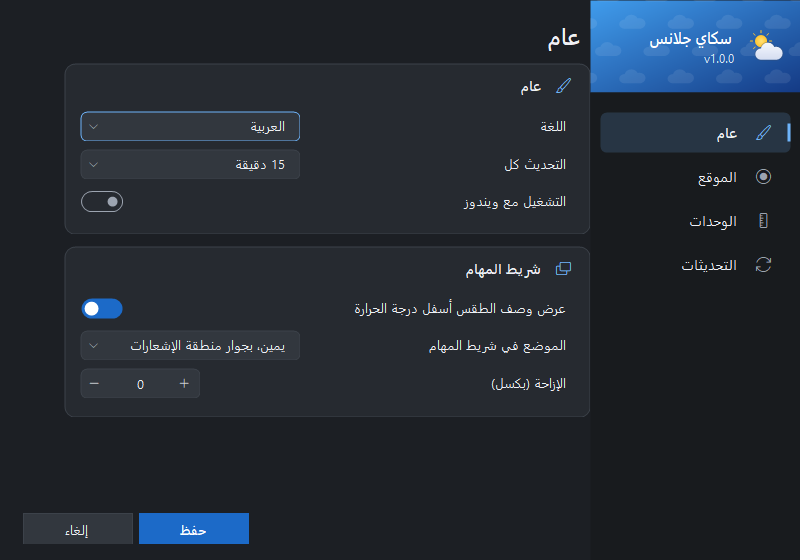
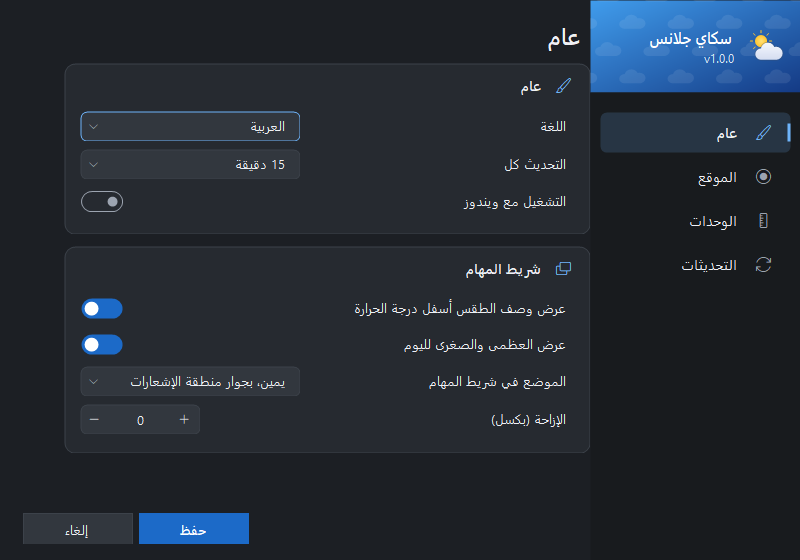
Show today's high and low in the widget, and line up the city search results

diff --git a/src/SkyGlance/UI/Taskbar/TaskbarWidget.cs b/src/SkyGlance/UI/Taskbar/TaskbarWidget.cs
@@ -1,4 +1,4 @@
-using System.Drawing.Drawing2D;
+using System.Drawing.Drawing2D;
 using System.Drawing.Imaging;
 using System.Drawing.Text;
 using static SkyGlance.Interop.Native;
@@ -23,9 +23,9 @@ sealed class TaskbarWidget : NativeWindow
     public event Action? RightClicked;
 
     IntPtr tray;
-    string temp = "--", condition = "";
+    string temp = "--", condition = "", hiLo = "";
     SkyIcon icon = SkyIcon.Cloudy;
-    bool hover, rtl, day = true, showCondition = true;
+    bool hover, rtl, day = true, showCondition = true, showHiLo = true;
     Size size;
     Point lastPos = new(int.MinValue, 0);
 
@@ -74,11 +74,13 @@ sealed class TaskbarWidget : NativeWindow
         Place();
     }
 
-    public void SetContent(string temperature, string conditionText, SkyIcon sky, bool isDay, bool withCondition, bool isRtl)
+    /// <param name="highLow">Today's high and low (such as "↑22° ↓13°"), or null to leave them out.</param>
+    public void SetContent(string temperature, string conditionText, string? highLow, SkyIcon sky, bool isDay, bool withCondition, bool isRtl)
     {
-        if (temperature == temp && conditionText == condition && sky == icon && isDay == day && withCondition == showCondition && isRtl == rtl) return;
-        bool relayout = isRtl != rtl || withCondition != showCondition;
-        temp = temperature; condition = conditionText; icon = sky; day = isDay; showCondition = withCondition; rtl = isRtl;
+        string hl = highLow ?? "";
+        if (temperature == temp && conditionText == condition && hl == hiLo && (highLow != null) == showHiLo && sky == icon && isDay == day && withCondition == showCondition && isRtl == rtl) return;
+        bool relayout = isRtl != rtl || withCondition != showCondition || (highLow != null) != showHiLo;
+        temp = temperature; condition = conditionText; hiLo = hl; showHiLo = highLow != null; icon = sky; day = isDay; showCondition = withCondition; rtl = isRtl;
         if (!Alive) return;
         var before = size;
         Render();
@@ -243,7 +245,7 @@ sealed class TaskbarWidget : NativeWindow
     void Render()
     {
         if (!GetWindowRect(tray, out var tr)) return;
-        using var bmp = Paint(temp, condition, icon, day, showCondition, hover, rtl, SystemDark(), Scale, tr.Height);
+        using var bmp = Paint(temp, condition, showHiLo ? hiLo : null, icon, day, showCondition, hover, rtl, SystemDark(), Scale, tr.Height);
         size = bmp.Size;
         var screen = GetDC(IntPtr.Zero);
         var mem = CreateCompatibleDC(screen);
@@ -266,22 +268,26 @@ sealed class TaskbarWidget : NativeWindow
     }
 
     /// <summary>
-    /// Draws the widget: the weather picture beside the temperature, with the condition below it.
+    /// Draws the widget: the weather picture beside the temperature and today's high and low, with the condition below.
     /// The width depends only on the scale and the settings, never on the values, so it doesn't jitter as they change.
     /// </summary>
-    public static Bitmap Paint(string temp, string condition, SkyIcon icon, bool isDay, bool withCondition, bool hover, bool rtl, bool dark, float s, int h)
+    public static Bitmap Paint(string temp, string condition, string? highLow, SkyIcon icon, bool isDay, bool withCondition, bool hover, bool rtl, bool dark, float s, int h)
     {
         using var fTemp = new Font("Segoe UI Semibold", (withCondition ? 13f : 15f) * s, GraphicsUnit.Pixel);
         using var fCond = new Font("Segoe UI", 11f * s, GraphicsUnit.Pixel);
-        float tempW;
+        float tempW, hlW = 0, tempNow;
         using (var probe = new Bitmap(1, 1))
         using (var pg = Graphics.FromImage(probe))
         {
             pg.TextRenderingHint = TextRenderingHint.AntiAliasGridFit;
-            tempW = pg.MeasureString("-88°", fTemp).Width;
+            tempW = pg.MeasureString("-88\u00B0", fTemp).Width;
+            tempNow = pg.MeasureString(temp, fTemp).Width;
+            // Room for the widest likely high and low, so the width doesn't change with the weather.
+            if (highLow != null) hlW = Math.Max(pg.MeasureString("\u219188\u00B0 \u2193-88\u00B0", fCond).Width, pg.MeasureString(highLow, fCond).Width);
         }
-        int pad = (int)(8 * s), iconS = (int)Math.Min(h - 14 * s, 30 * s), gap = (int)(6 * s);
-        int textW = (int)Math.Ceiling(withCondition ? Math.Max(tempW, 92 * s) : tempW);
+        int pad = (int)(8 * s), iconS = (int)Math.Min(h - 14 * s, 30 * s), gap = (int)(6 * s), hlGap = (int)(4 * s);
+        float topW = tempW + (highLow != null ? hlGap + hlW : 0);
+        int textW = (int)Math.Ceiling(withCondition ? Math.Max(topW, 92 * s) : topW);
         int w = pad + iconS + gap + textW + pad;
 
         var bmp = new Bitmap(w, h, PixelFormat.Format32bppArgb);
@@ -320,16 +326,20 @@ sealed class TaskbarWidget : NativeWindow
             using var b = new SolidBrush(fg);
             using var bd = new SolidBrush(dim);
             float tH = fTemp.GetHeight(g);
-            if (withCondition && condition.Length > 0)
+            float cH = fCond.GetHeight(g);
+            float y1 = withCondition && condition.Length > 0 ? (h - (tH + cH - 3 * s)) / 2 : (h - tH) / 2;
+            g.DrawString(temp, fTemp, b, new RectangleF(textX, y1, textW, tH), tf);
+            if (!string.IsNullOrEmpty(highLow))
             {
-                float cH = fCond.GetHeight(g);
-                float total = tH + cH - 3 * s;
-                float y1 = (h - total) / 2;
-                g.DrawString(temp, fTemp, b, new RectangleF(textX, y1, textW, tH), tf);
-                g.DrawString(condition, fCond, bd, new RectangleF(textX, y1 + tH - 3 * s, textW, cH), sf);
+                // Just after the temperature, on the reading side, sharing its baseline.
+                float hlY = y1 + (fTemp.FontFamily.GetCellAscent(fTemp.Style) * fTemp.Size / fTemp.FontFamily.GetEmHeight(fTemp.Style))
+                               - (fCond.FontFamily.GetCellAscent(fCond.Style) * fCond.Size / fCond.FontFamily.GetEmHeight(fCond.Style));
+                float hlX = rtl ? textX + textW - tempNow - hlGap - hlW : textX + tempNow + hlGap;
+                using var hf = new StringFormat { Alignment = rtl ? StringAlignment.Far : StringAlignment.Near, FormatFlags = StringFormatFlags.NoWrap };
+                g.DrawString(highLow, fCond, bd, new RectangleF(hlX, hlY, hlW + 2 * s, cH), hf);
             }
-            else
-                g.DrawString(temp, fTemp, b, new RectangleF(textX, (h - tH) / 2, textW, tH), tf);
+            if (withCondition && condition.Length > 0)
+                g.DrawString(condition, fCond, bd, new RectangleF(textX, y1 + tH - 3 * s, textW, cH), sf);
         }
         return bmp;
     }

diff --git a/src/SkyGlance/UI/Settings/SettingsForm.cs b/src/SkyGlance/UI/Settings/SettingsForm.cs
@@ -12,16 +12,17 @@ sealed class SettingsForm : Form
     // General
     readonly ThemedCombo cmbLang = Combo(), cmbSide = Combo(), cmbRefresh = Combo();
     readonly ThemedNumber numOffset = Num(-2000, 2000);
-    readonly ToggleSwitch tglStartup = new(), tglCondition = new();
+    readonly ToggleSwitch tglStartup = new(), tglCondition = new(), tglHighLow = new();
     static readonly int[] RefreshOptions = [10, 15, 30, 60];
     // Location
     readonly ToggleSwitch tglAuto = new();
     readonly Label lblPlace = new() { AutoSize = true, Font = new Font("Segoe UI Semibold", 11f), MaximumSize = new Size(490, 0), Margin = new Padding(0, 0, 0, 6) };
     readonly Label lblLocStatus = new() { AutoSize = true, Tag = "dim", MaximumSize = new Size(490, 0), Margin = new Padding(0, 4, 0, 4) };
     readonly Button btnDetect = new() { AutoSize = true, Height = 30 };
-    readonly ThemedText txtSearch = new() { Width = 330 };
-    readonly Button btnSearch = new() { AutoSize = true, Height = 30 }, btnUse = new() { AutoSize = true, Height = 30 };
-    readonly ThemedCombo cmbResults = Combo(490);
+    readonly ThemedText txtSearch = new() { Width = 392 };
+    readonly Button btnSearch = new() { Size = new Size(90, 30) }, btnUse = new() { AutoSize = true, Height = 30 };
+    // Same left edge as the rows above and below it (a control's default margin is 3 px), and the same width as the search row.
+    readonly ThemedCombo cmbResults = new() { Width = 490, Margin = new Padding(0, 4, 0, 4) };
     readonly List<LocResult> results = [];
     // Units
     readonly ThemedCombo cmbTemp = Combo(260), cmbWind = Combo(260), cmbPrecip = Combo(260);
@@ -123,6 +124,7 @@ sealed class SettingsForm : Form
         int ri = Array.IndexOf(RefreshOptions, s.RefreshMinutes);
         cmbRefresh.SelectedIndex = ri >= 0 ? ri : 1;
         tglCondition.Checked = s.ShowCondition;
+        tglHighLow.Checked = s.ShowHighLow;
         tglStartup.Checked = !app.Headless && AppSettings.StartWithWindows;
         AddPage(Art.IconGeneral, L.T("General"),
             Card(L.T("General"), Art.IconGeneral,
@@ -131,6 +133,7 @@ sealed class SettingsForm : Form
                 Row(L.T("StartWithWindows"), tglStartup)),
             Card(L.T("Taskbar"), Art.IconTaskbar,
                 Row(L.T("ShowCondition"), tglCondition),
+                Row(L.T("ShowHighLow"), tglHighLow),
                 Row(L.T("WidgetPosition"), cmbSide),
                 Row(L.T("WidgetOffset"), numOffset)));
     }
@@ -255,6 +258,7 @@ sealed class SettingsForm : Form
         s.WidgetOffset = (int)numOffset.Value;
         s.RefreshMinutes = RefreshOptions[Math.Max(0, cmbRefresh.SelectedIndex)];
         s.ShowCondition = tglCondition.Checked;
+        s.ShowHighLow = tglHighLow.Checked;
         s.AutoLocation = tglAuto.Checked;
         s.Temperature = (TemperatureUnit)Math.Max(0, cmbTemp.SelectedIndex);
         s.Wind = (WindUnit)Math.Max(0, cmbWind.SelectedIndex);

diff --git a/src/SkyGlance/SkyGlanceApp.cs b/src/SkyGlance/SkyGlanceApp.cs
@@ -1,4 +1,4 @@
-using Microsoft.Win32;
+using Microsoft.Win32;
 
 namespace SkyGlance;
 
@@ -164,13 +164,20 @@ sealed class SkyGlanceApp : ApplicationContext
         return h == null ? null : (h.TemperatureC, h.Code, h.IsDay);
     }
 
+    /// <summary>Today's high and low at the location, such as "↑22° ↓13°", or null before the first forecast.</summary>
+    public string? HighLow()
+    {
+        if (Forecast?.Today(LocalNow) is not { } d) return null;
+        return $"\u2191{UnitFormat.Temperature(d.MaxC, S.Temperature)} \u2193{UnitFormat.Temperature(d.MinC, S.Temperature)}";
+    }
+
     void UpdateWidget()
     {
         if (Headless) return;
         var now = Now();
         string t = now is { } n ? UnitFormat.Temperature(n.tempC, S.Temperature) : "--";
         string cond = now is { } m ? L.Condition(m.code) : !S.HasLocation ? L.T("Location") : "";
-        widget.SetContent(t, cond, now is { } k ? WeatherCode.Icon(k.code) : SkyIcon.Cloudy, now?.day ?? true, S.ShowCondition, L.Ar);
+        widget.SetContent(t, cond, S.ShowHighLow ? HighLow() ?? "" : null, now is { } k ? WeatherCode.Icon(k.code) : SkyIcon.Cloudy, now?.day ?? true, S.ShowCondition, L.Ar);
         string tip = now is { } p
             ? $"{L.T("AppName")}: {S.LocationName}\n{UnitFormat.Temperature(p.tempC, S.Temperature)} {L.Condition(p.code)}"
             : $"{L.T("AppName")}\n{(S.HasLocation ? L.T("Loading") : L.T("NoLocation"))}";

diff --git a/src/SkyGlance/DevTools/Shots.cs b/src/SkyGlance/DevTools/Shots.cs
@@ -21,7 +21,7 @@ static class Shots
             var c = forecast.Current;
 
             WidgetStrip(Path.Combine(dir, $"widget-{lang}.png"), UnitFormat.Temperature(c.TemperatureC, TemperatureUnit.Celsius),
-                L.Condition(c.Code), WeatherCode.Icon(c.Code), c.IsDay, lang == "ar");
+                L.Condition(c.Code), app.HighLow(), WeatherCode.Icon(c.Code), c.IsDay, lang == "ar");
 
             foreach (var dark in new[] { true, false })
             {
@@ -45,11 +45,11 @@ static class Shots
     }
 
     /// <summary>The widget on a dark taskbar-coloured strip, at 150% scale for a crisp README image.</summary>
-    static void WidgetStrip(string path, string temp, string condition, SkyIcon icon, bool day, bool rtl)
+    static void WidgetStrip(string path, string temp, string condition, string? highLow, SkyIcon icon, bool day, bool rtl)
     {
         const float s = 1.5f;
         int h = (int)(48 * s);
-        using var widget = TaskbarWidget.Paint(temp, condition, icon, day, true, false, rtl, true, s, h);
+        using var widget = TaskbarWidget.Paint(temp, condition, highLow, icon, day, true, false, rtl, true, s, h);
         using var strip = new Bitmap(widget.Width + (int)(40 * s), h);
         using (var g = Graphics.FromImage(strip))
         {

diff --git a/src/SkyGlance/Localization/L.cs b/src/SkyGlance/Localization/L.cs
@@ -79,6 +79,7 @@ public static class L
         ["PrecipIn"] = ("Inches (in)", "بوصة (in)"),
         ["Taskbar"] = ("Taskbar", "شريط المهام"),
         ["ShowCondition"] = ("Show the condition under the temperature", "عرض وصف الطقس أسفل درجة الحرارة"),
+        ["ShowHighLow"] = ("Show today's high and low", "عرض العظمى والصغرى لليوم"),
         ["RefreshEvery"] = ("Refresh every", "التحديث كل"),
         ["Minutes"] = ("{0} minutes", "{0} دقيقة"),
         ["WidgetPosition"] = ("Taskbar position", "الموضع في شريط المهام"),

diff --git a/src/SkyGlance/Configuration/AppSettings.cs b/src/SkyGlance/Configuration/AppSettings.cs
@@ -22,6 +22,8 @@ public sealed class AppSettings
 
     /// <summary>Show the condition ("Light rain") under the temperature in the taskbar.</summary>
     public bool ShowCondition { get; set; } = true;
+    /// <summary>Show today's high and low beside the temperature in the taskbar.</summary>
+    public bool ShowHighLow { get; set; } = true;
     /// <summary>Minutes between forecast refreshes.</summary>
     public int RefreshMinutes { get; set; } = 15;
 

diff --git a/README.md b/README.md
@@ -27,7 +27,7 @@ with Celsius or Fahrenheit and five wind units. English and Arabic. No account, 
 
 ## Features
 
-- **Lives in the taskbar.** A weather picture, the temperature and the condition, embedded next to the notification area or at the left end. It takes the nearest free spot on either side, so it never covers other taskbar tools such as Data Tide, Salaty Reminder or TrafficMonitor, hides with the taskbar in fullscreen apps and comes back after Explorer restarts.
+- **Lives in the taskbar.** A weather picture, the temperature, today's high and low and the condition, embedded next to the notification area or at the left end. It takes the nearest free spot on either side, so it never covers other taskbar tools such as Data Tide, Salaty Reminder or TrafficMonitor, hides with the taskbar in fullscreen apps and comes back after Explorer restarts.
 - **Forecast flyout.** Click the widget for the sky right now (with "feels like", today's high and low), humidity, wind and direction, UV index, rain chance, sunrise and sunset, a 24-hour temperature chart with rain chances, and a 7-day forecast with each day's range.
 - **Your location, automatically.** Uses Windows location when it's on, otherwise a rough location from your IP address, and checks again every few hours so a laptop follows you. Or search for any city in the world and keep it.
 - **The time where the weather is.** A city in another time zone shows its own clock and its own "now".

diff --git a/CHANGELOG.md b/CHANGELOG.md
@@ -6,7 +6,7 @@ The format follows [Keep a Changelog](https://keepachangelog.com/en/1.1.0/) and 
 ## [1.0.0] - 2026-11-16
 
 ### Added
-- Taskbar widget with the weather picture, the temperature and the condition, beside the notification area or at the left end of the taskbar. On either side it takes the nearest free spot, so it never overlaps other taskbar widgets such as Data Tide or Salaty Reminder, and it survives Explorer restarts.
+- Taskbar widget with the weather picture, the temperature, today's high and low (each can be hidden) and the condition, beside the notification area or at the left end of the taskbar. On either side it takes the nearest free spot, so it never overlaps other taskbar widgets such as Data Tide or Salaty Reminder, and it survives Explorer restarts.
 - Forecast flyout: conditions now with "feels like" and today's high and low, six detail tiles, a 24-hour temperature chart with rain chances and a 7-day forecast.
 - Automatic location through Windows location with an IP fallback, re-checked every 6 hours, or any city found by search.
 - Temperature in Celsius or Fahrenheit, wind in km/h, m/s, mph, knots or Beaufort, precipitation in millimetres or inches.
